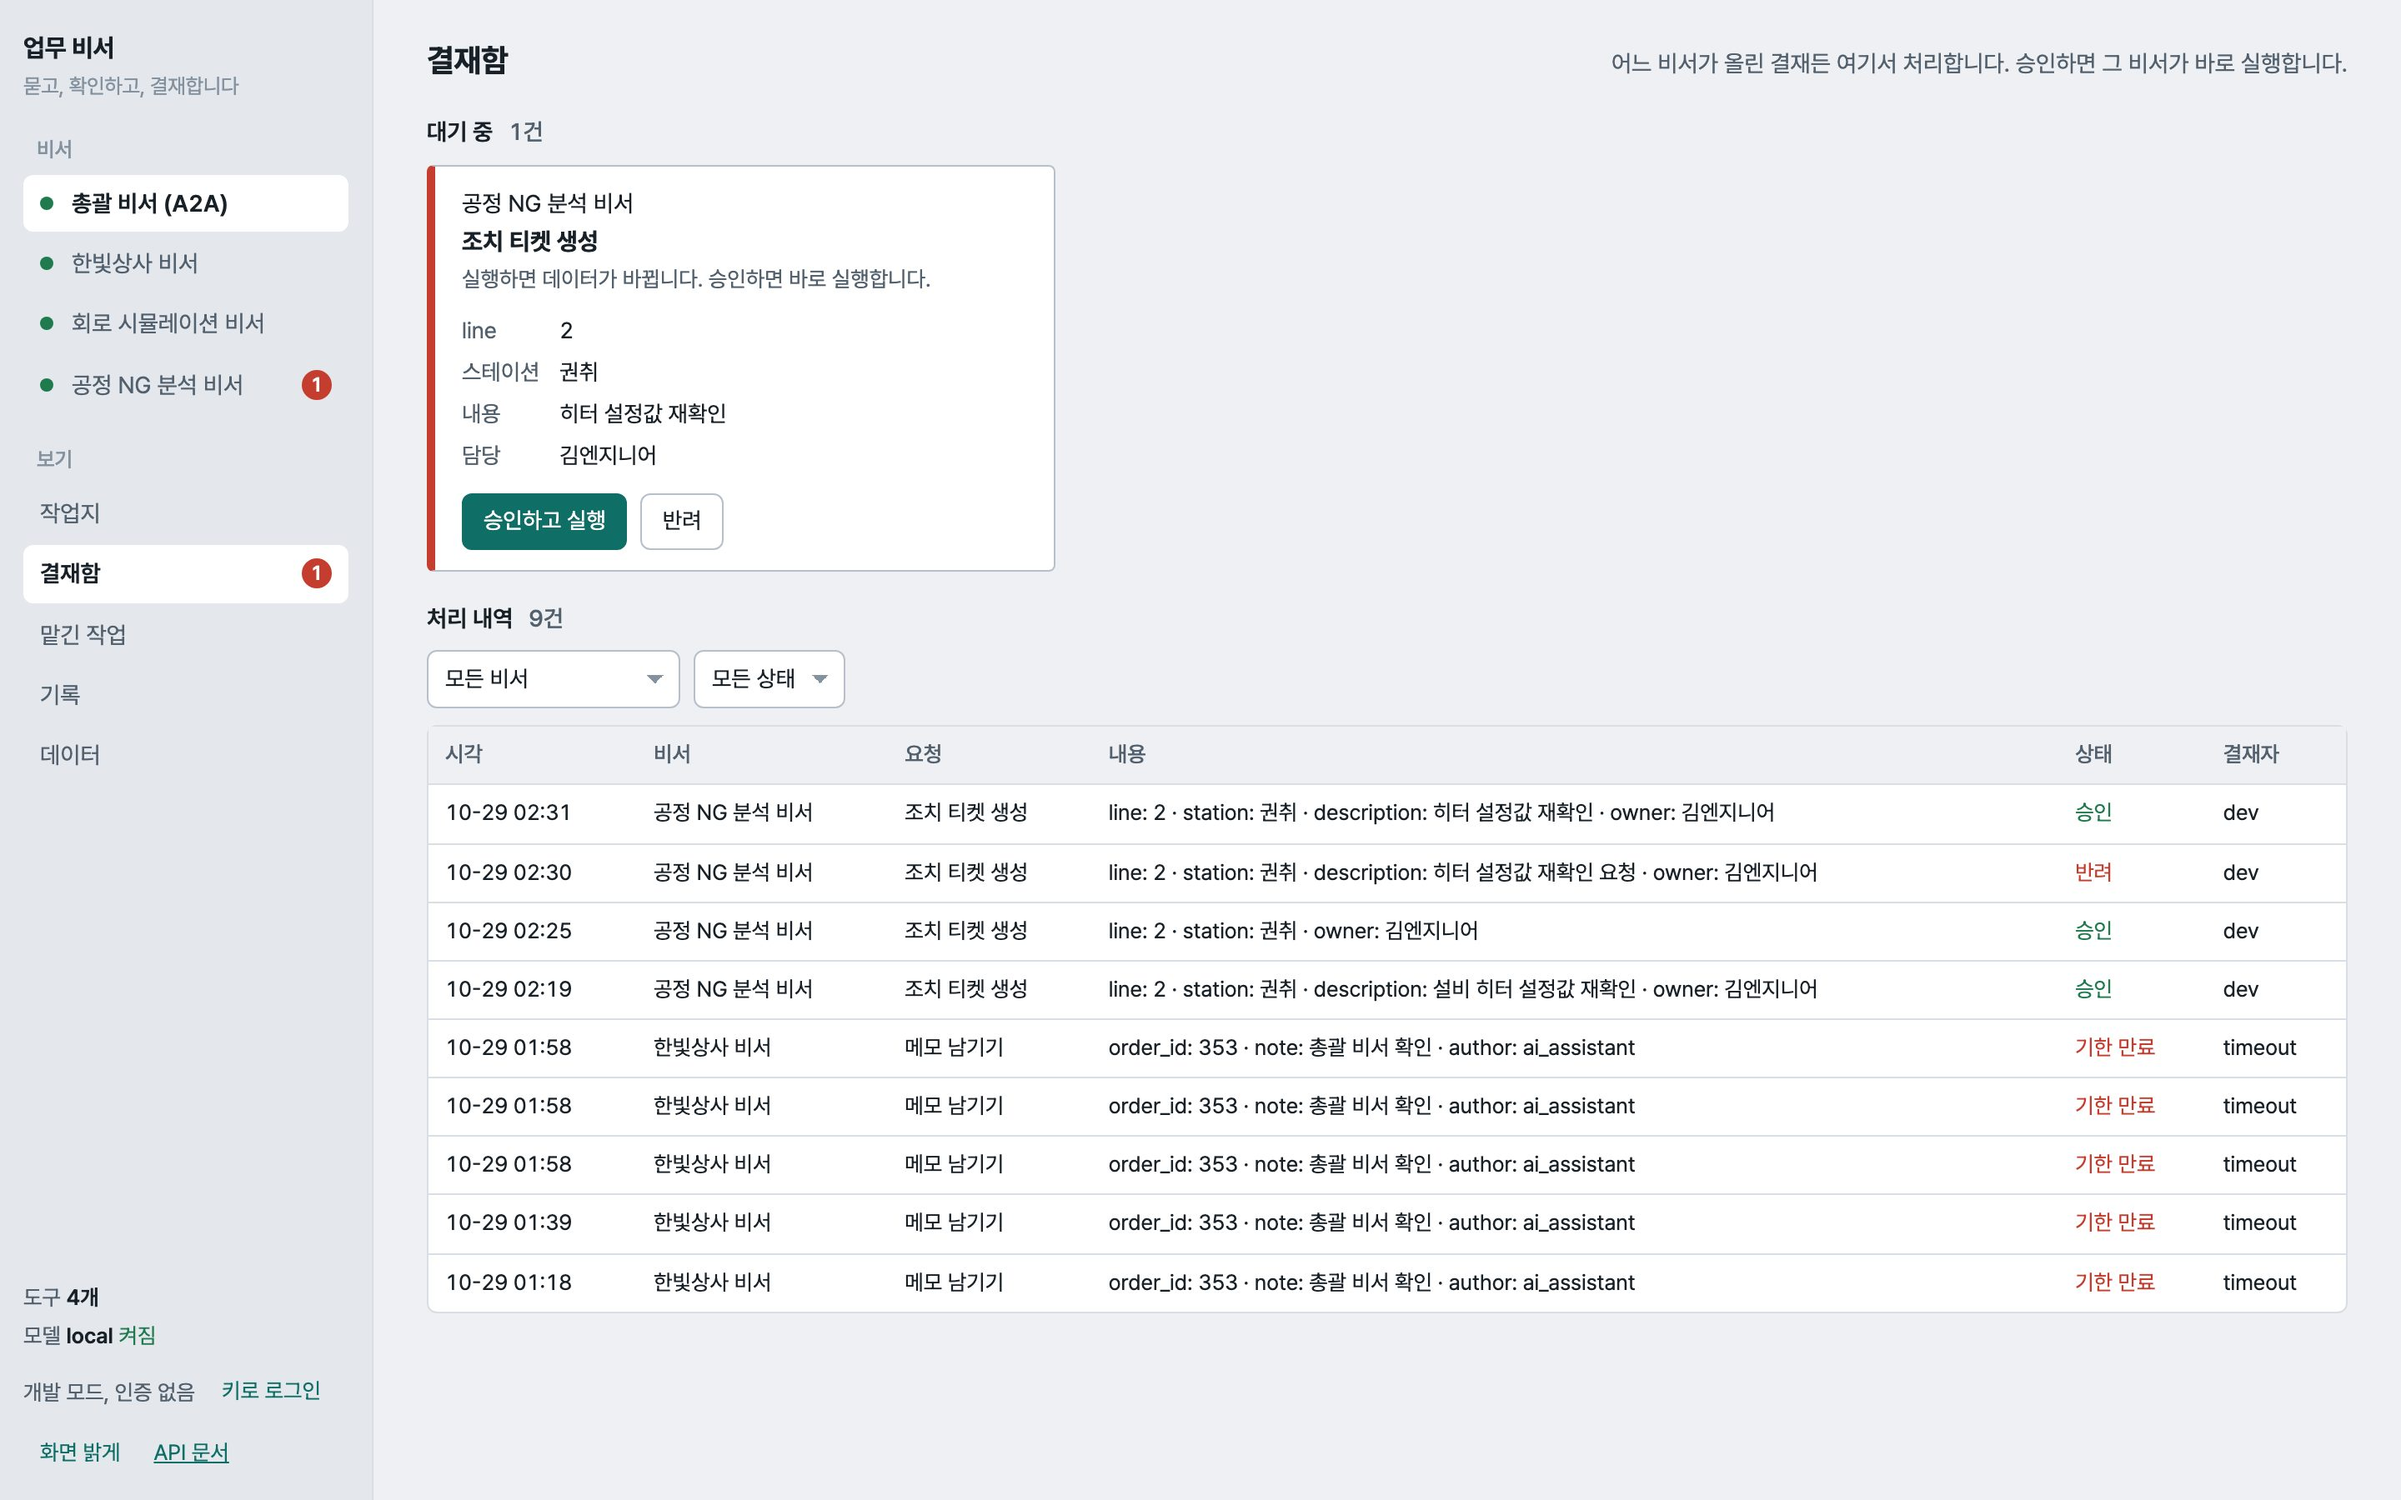
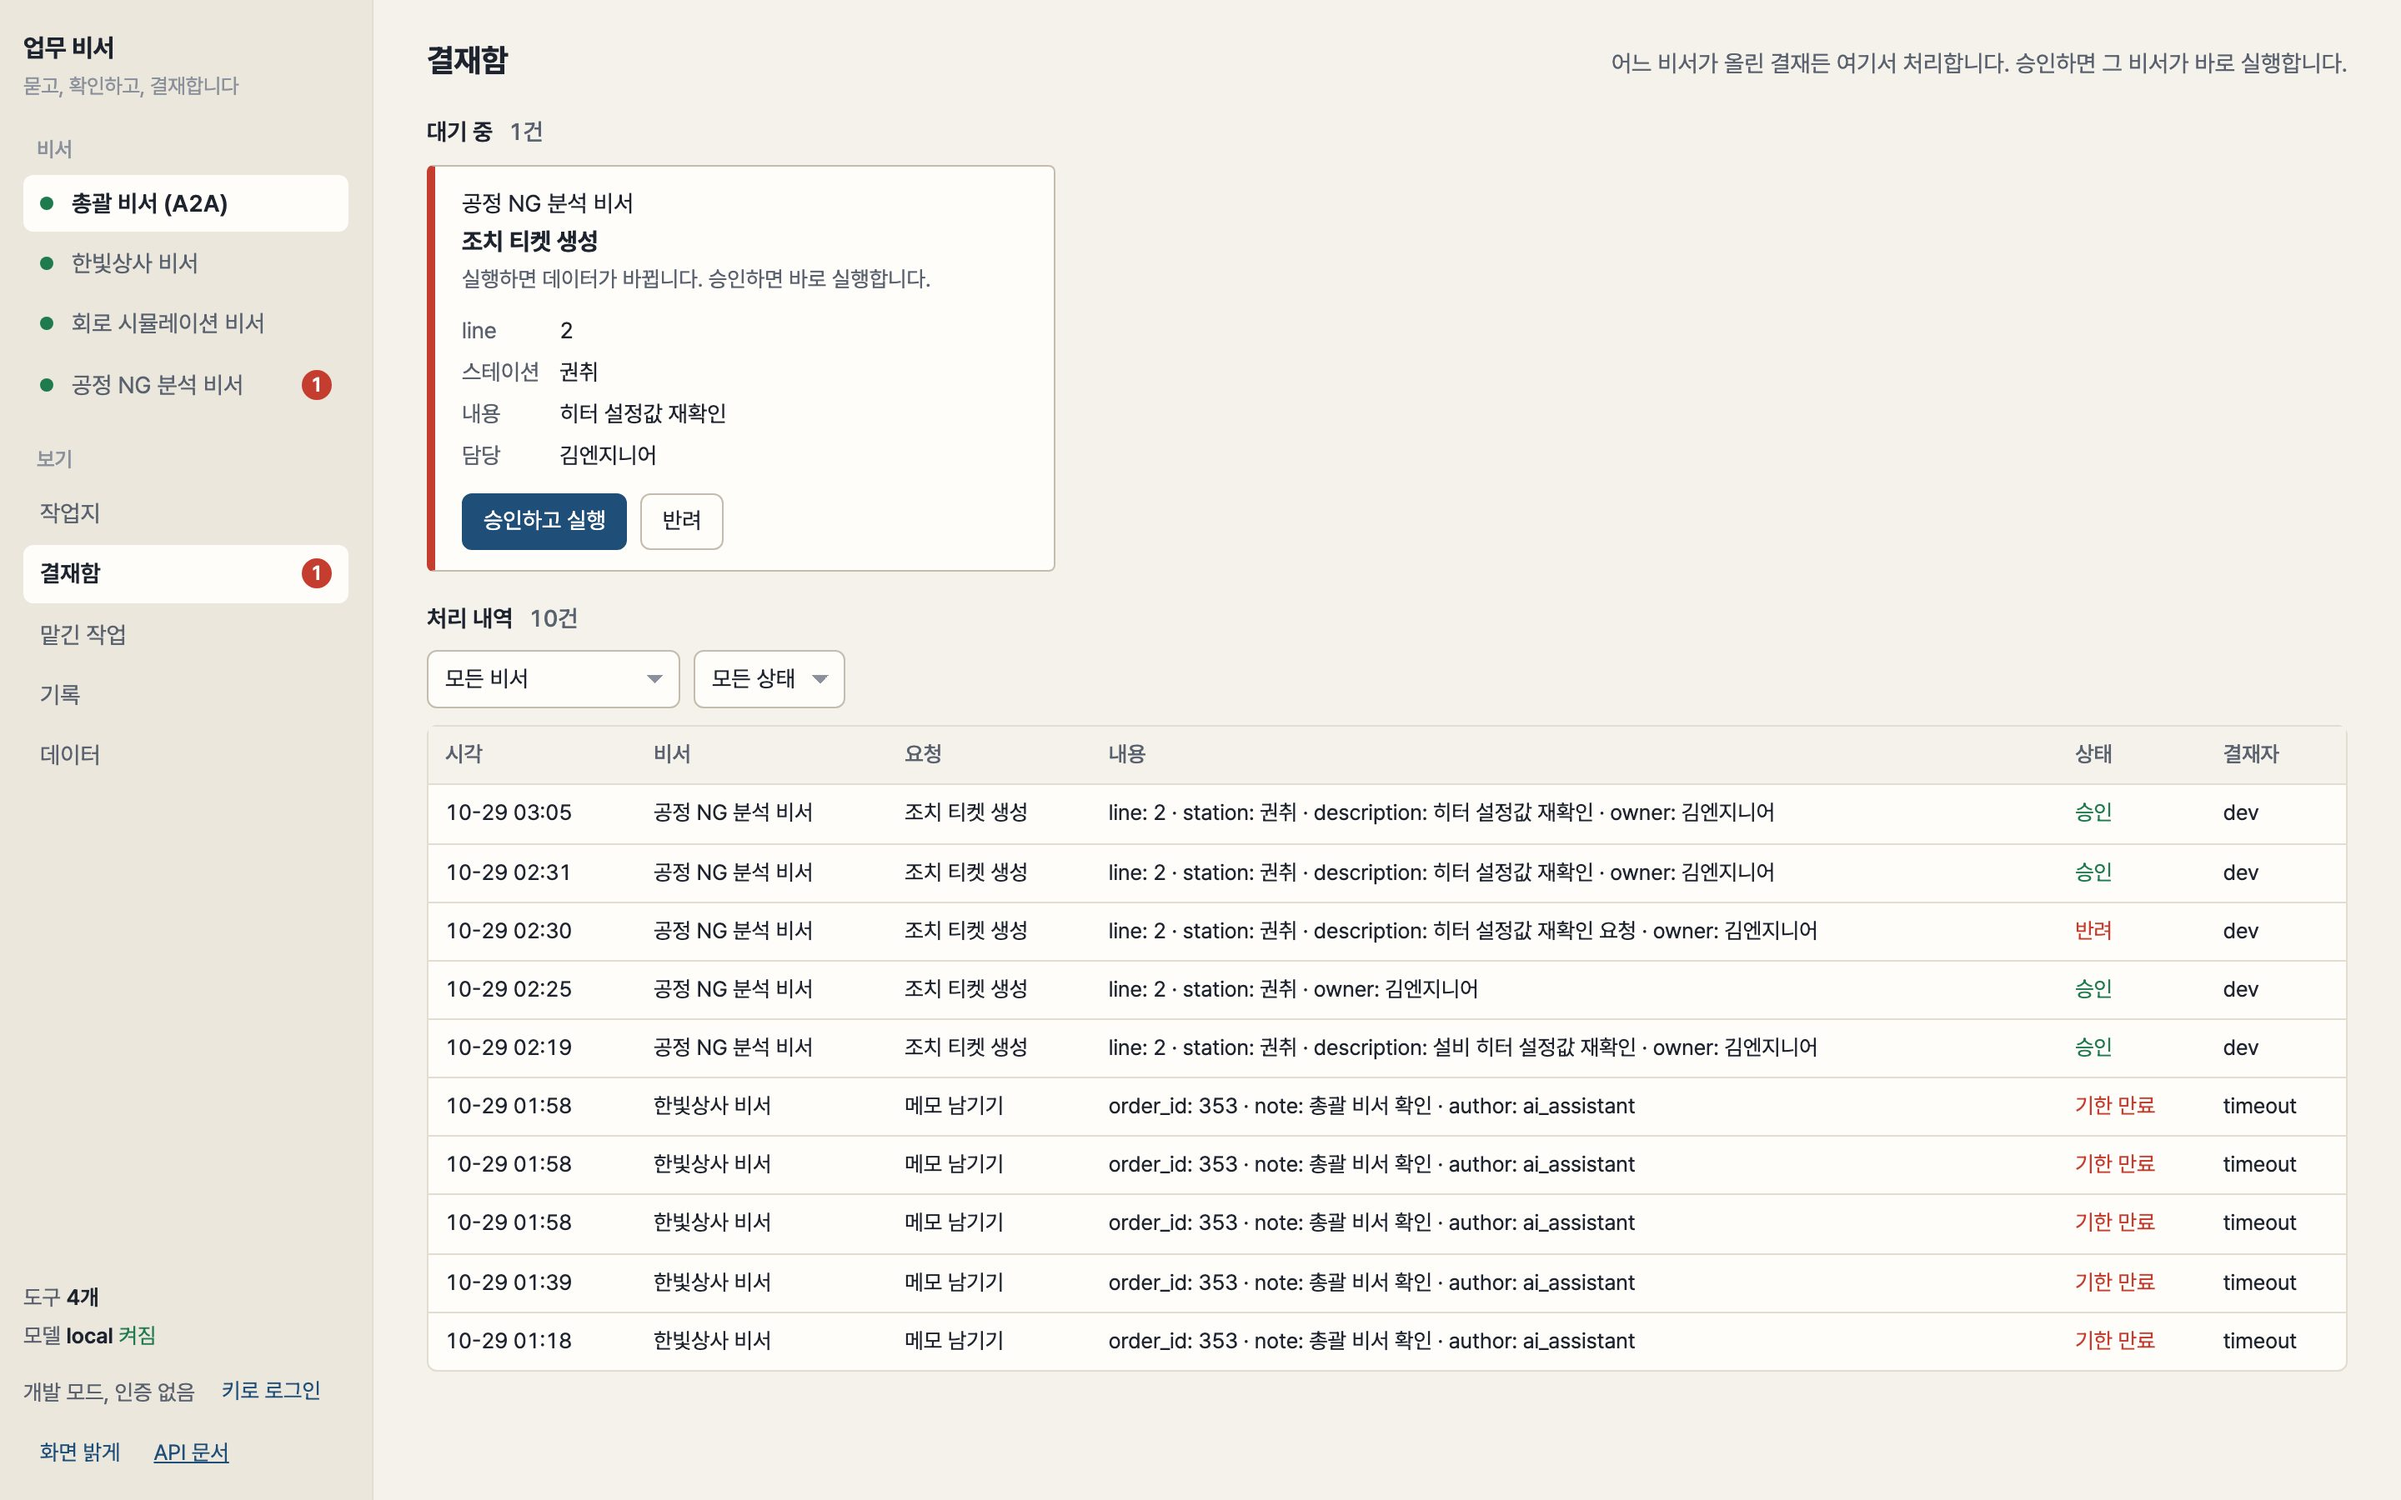
화면 색을 따뜻한 종이 + 남색으로: 토큰·그래프 1계열·격자 색 변경, README 그림 10장 재캡처

diff --git a/ui/src/styles.css b/ui/src/styles.css
@@ -1,27 +1,27 @@
-/* 업무 데스크. 서류 종이 위에 글만 두고, 유일한 장식은 결재 도장이다. 글꼴은 Pretendard 하나. */
+/* 업무 데스크. 따뜻한 종이 위에 먹으로 쓴 글, 포인트는 남색 하나, 유일한 장식은 결재 도장이다. 글꼴은 Pretendard 하나. */
 :root{
-  --paper:#eef0f3;--sheet:#ffffff;--side:#e4e8ed;--rule:#d9dee4;--rule-strong:#b7c0ca;
-  --ink:#182028;--ink-2:#53616f;--ink-3:#8492a0;
-  --act:#0f6e66;--act-hover:#0b5a53;--act-tint:#e3f0ee;
+  --paper:#f5f2ec;--sheet:#fffdf9;--side:#ece7dd;--rule:#e2dcd1;--rule-strong:#c4bcae;
+  --ink:#1d2430;--ink-2:#5a6270;--ink-3:#8b919c;
+  --act:#1f4e79;--act-hover:#173d60;--act-tint:#e8eef5;
   --stamp:#c43d2f;--stamp-tint:#fbeae8;--ok:#1f7a4d;--warn:#8a6100;--warn-tint:#fcf3da;
-  --s-llm:#2a78d6;--s-tool:#eb6834;--s-approval:#1baf7a;--s-run:#9a9890;
+  --s-llm:#2a78d6;--s-tool:#e07a2d;--s-approval:#1baf7a;--s-run:#9a9890;
   --r:6px;--font:"Pretendard Variable",Pretendard,-apple-system,BlinkMacSystemFont,"Apple SD Gothic Neo","Noto Sans KR",sans-serif;
   --mono:ui-monospace,"SF Mono",Menlo,Consolas,monospace;
   --side-w:224px;--rail-w:312px;
 }
 :root[data-theme=dark]{
-  --paper:#15181c;--sheet:#1c2026;--side:#111417;--rule:#2d333a;--rule-strong:#444c56;
-  --ink:#e7eaee;--ink-2:#a2abb5;--ink-3:#727b86;
-  --act:#5cc2b6;--act-hover:#7fd3c9;--act-tint:#172e2b;
+  --paper:#1b1917;--sheet:#23201d;--side:#151311;--rule:#36322d;--rule-strong:#4d473f;
+  --ink:#ece7df;--ink-2:#aaa39a;--ink-3:#7a746c;
+  --act:#8fb4dc;--act-hover:#a9c6e6;--act-tint:#1e2a38;
   --stamp:#ef6b60;--stamp-tint:#3a2320;--ok:#5fc48f;--warn:#e2b84a;--warn-tint:#332b14;
-  --s-llm:#3987e5;--s-tool:#d95926;--s-approval:#199e70;--s-run:#6f6e68;
+  --s-llm:#3987e5;--s-tool:#d9742b;--s-approval:#199e70;--s-run:#6f6e68;
 }
 @media (prefers-color-scheme:dark){:root:not([data-theme=light]){
-  --paper:#15181c;--sheet:#1c2026;--side:#111417;--rule:#2d333a;--rule-strong:#444c56;
-  --ink:#e7eaee;--ink-2:#a2abb5;--ink-3:#727b86;
-  --act:#5cc2b6;--act-hover:#7fd3c9;--act-tint:#172e2b;
+  --paper:#1b1917;--sheet:#23201d;--side:#151311;--rule:#36322d;--rule-strong:#4d473f;
+  --ink:#ece7df;--ink-2:#aaa39a;--ink-3:#7a746c;
+  --act:#8fb4dc;--act-hover:#a9c6e6;--act-tint:#1e2a38;
   --stamp:#ef6b60;--stamp-tint:#3a2320;--ok:#5fc48f;--warn:#e2b84a;--warn-tint:#332b14;
-  --s-llm:#3987e5;--s-tool:#d95926;--s-approval:#199e70;--s-run:#6f6e68;
+  --s-llm:#3987e5;--s-tool:#d9742b;--s-approval:#199e70;--s-run:#6f6e68;
 }}
 *{box-sizing:border-box}
 html,body{margin:0;height:100%;background:var(--paper);color:var(--ink);font:14px/1.55 var(--font);font-feature-settings:"tnum" 1}
@@ -112,8 +112,8 @@ ul.md{margin:4px 0;padding-left:18px;white-space:normal}ul.md li{margin:2px 0}
 @media (prefers-reduced-motion:no-preference){.caret{animation:blink 1s steps(2,start) infinite}@keyframes blink{to{visibility:hidden}}}
 .evidence{margin-top:14px;display:grid;grid-template-columns:minmax(0,1fr);gap:10px}
 .card{border:1px solid var(--rule);border-radius:var(--r);padding:10px 12px;background:var(--paper);min-width:0;overflow:hidden}
-:root[data-theme=dark] .card{background:#181c21}
-@media (prefers-color-scheme:dark){:root:not([data-theme=light]) .card{background:#181c21}}
+:root[data-theme=dark] .card{background:#1d1a17}
+@media (prefers-color-scheme:dark){:root:not([data-theme=light]) .card{background:#1d1a17}}
 .card .ct{display:flex;justify-content:space-between;gap:10px;font-size:13px;color:var(--ink-2);margin-bottom:6px}
 .card .ct b{color:var(--ink);font-weight:600;flex-shrink:0}
 .card .ct span{min-width:0;overflow:hidden;text-overflow:ellipsis;white-space:nowrap}

diff --git a/ui/src/components/DataView.tsx b/ui/src/components/DataView.tsx
@@ -17,7 +17,7 @@ export function Heat({ data }: { data: HeatData }) {
     <div className="tablewrap"><table className="data heat">
       <thead><tr><th></th>{data.cols.map((c) => <th key={c}>{c}</th>)}</tr></thead>
       <tbody>{data.rows.map((r, i) => <tr key={r}><th>{r}</th>{data.cols.map((c, j) => { const v = data.values[i]?.[j]; const a = v === null || v === undefined ? 0 : 0.08 + 0.72 * ((v - min) / span);  // 최소~최대 사이로 펼쳐 작은 차이도 보이게
-        return <td key={c} className="num" style={{ background: `rgba(15,110,102,${a.toFixed(3)})`, color: a > 0.5 ? "#fff" : undefined }} title={`${r} ${c}: ${fmtv(v, data.unit)}`}>{v === null || v === undefined ? "" : fmtv(v)}</td>; })}</tr>)}</tbody>
+        return <td key={c} className="num" style={{ background: `rgba(31,78,121,${a.toFixed(3)})`, color: a > 0.5 ? "#fff" : undefined }} title={`${r} ${c}: ${fmtv(v, data.unit)}`}>{v === null || v === undefined ? "" : fmtv(v)}</td>; })}</tr>)}</tbody>
     </table></div>
   );
 }

diff --git a/ui/src/components/Chart.tsx b/ui/src/components/Chart.tsx
@@ -3,7 +3,7 @@ import type { SeriesData } from "../types";
 import { Table } from "./ResultCard";
 
 /** 계열 색은 고정 순서(청록·파랑·주황·보라). 필터로 계열 수가 바뀌어도 같은 이름은 같은 색이어야 하므로 이름이 아니라 자리로 준다. */
-export const SERIES_COLORS = ["#0f6e66", "#2a78d6", "#eb6834", "#6b4c9a"];
+export const SERIES_COLORS = ["#1f4e79", "#1a9c8f", "#e07a2d", "#7b4fa6"];  // 남색(포인트)·청록·주황·보라
 const W = 640, H = 220, L = 46, R = 16, T = 14, B = 30;
 const fmt = (v: number | null | undefined, unit = "") => (v === null || v === undefined ? "값 없음" : `${Number.isInteger(v) ? v.toLocaleString("ko-KR") : v.toLocaleString("ko-KR", { maximumFractionDigits: 2 })}${unit ? " " + unit : ""}`);
 

diff --git a/ui/src/api.test.ts b/ui/src/api.test.ts
@@ -105,8 +105,8 @@ describe("data tab", () => {
     expect(st).toContain("2.35");
     expect(st).toContain("stat bad");
     const heat = renderToStaticMarkup(createElement(Heat, { data: { rows: ["1라인"], cols: ["코팅", "권취"], values: [[0.5, 2.0]], unit: "%" } }));
-    expect(heat).toContain("rgba(15,110,102,0.800)");             // 최댓값 칸이 가장 진하다
-    expect(heat).toContain("rgba(15,110,102,0.080)");             // 최솟값 칸이 가장 옅다
+    expect(heat).toContain("rgba(31,78,121,0.800)");             // 최댓값 칸이 가장 진하다
+    expect(heat).toContain("rgba(31,78,121,0.080)");             // 최솟값 칸이 가장 옅다
     expect(heat).toContain("color:#fff");
   });
 });

diff --git a/docs/decisions/018-ui-work-desk.md b/docs/decisions/018-ui-work-desk.md
@@ -20,6 +20,9 @@
 - 결재자는 총괄 비서 화면 하나만 열어 두면 된다. 공정 비서가 티켓 결재를 요청하면 사이드바의 그 비서에 빨간 숫자가 뜨고 결재함에 전표가 온다. 승인하면 도장이 찍히고 그 비서의 작업지 전표에도 같은 도장이 찍힌다.
 - 캡처는 `scripts/capture_ui.py` 가 헤드리스 Chrome 으로 실제 실행을 돌려 찍는다. README 의 화면은 전부 이 스크립트 산출물이다.
 
+## 추가 (2026-10-29): 색을 따뜻한 종이 + 남색으로
+사용자가 회색 종이·청록 조합을 보고 "배경과 포인트 색을 바꾸자" 고 했다. 세 가지(따뜻한 종이 + 남색, 차가운 흰색 + 코발트, 회녹색 + 진초록)를 보여 주고 첫 번째를 골랐다. 배경 `#f5f2ec`, 사이드바 `#ece7dd`, 종이 `#fffdf9`, 포인트 `#1f4e79`. 어두운 화면도 같은 온도로(`#1b1917` 위에 `#8fb4dc`). 그래프 1계열과 격자 농도도 남색으로 따라간다. 도장 빨강은 그대로다. 토큰만 바꿔서 컴포넌트 코드는 손대지 않았다.
+
 ## 대안과 기각 이유
 - **팩별 전용 화면.** 결과를 가장 잘 보여 줄 수는 있지만 팩을 추가할 때마다 화면 코드를 쓰게 되어 "팩 폴더 하나로 도메인 교체" 가 깨진다. 모양 규칙 + 팩이 주는 라벨로 충분했다.
 - **결재를 A2A 로 상위 비서에 넘기기.** ADR-017 의 결정(권한 경계 = 프로토콜 경계)을 유지한다. 화면이 여러 서비스를 직접 부르는 쪽이 단순하고 감사 기록도 각 서비스에 남는다.

diff --git a/NOTES.md b/NOTES.md
@@ -215,4 +215,5 @@ uv run harness eval --n 1            # 평가 16개
 - 그래프는 SVG 직접: 축 하나, 얇은 마크, 색은 자리로 고정, 범례·끝 라벨, 호버 값, 표 전환. 격자 농도는 0~최대가 아니라 최소~최대로 펼쳐야 NG율 1.0~1.5% 같은 좁은 범위에서 차이가 보인다.
 - 기록 → 작업지 복원은 저장된 이벤트에 `result` 가 있어서 가능했다(ADR-018 의 결정 4). 함정: 사이드바 보기 버튼을 비서 버튼과 같은 grid 로 두고 첫 칸을 0 으로 잡았더니 글자가 세로로 쪼개졌다. 숨긴 span 은 grid 에서 빠지므로 칸 수를 줄여야 한다.
 - ADR-019. 캡처 단계 d·i·h 추가(데이터·결재함·기록 탭).
+- 색 변경(같은 날 저녁): 사용자 요청으로 회색·청록 → 따뜻한 종이(#f5f2ec)·남색(#1f4e79). CSS 토큰 10여 개와 그래프 1계열·격자 색만 바꿨고 캡처 10장을 다시 찍었다. 토큰으로 묶어 둔 덕에 10분 작업.
 
